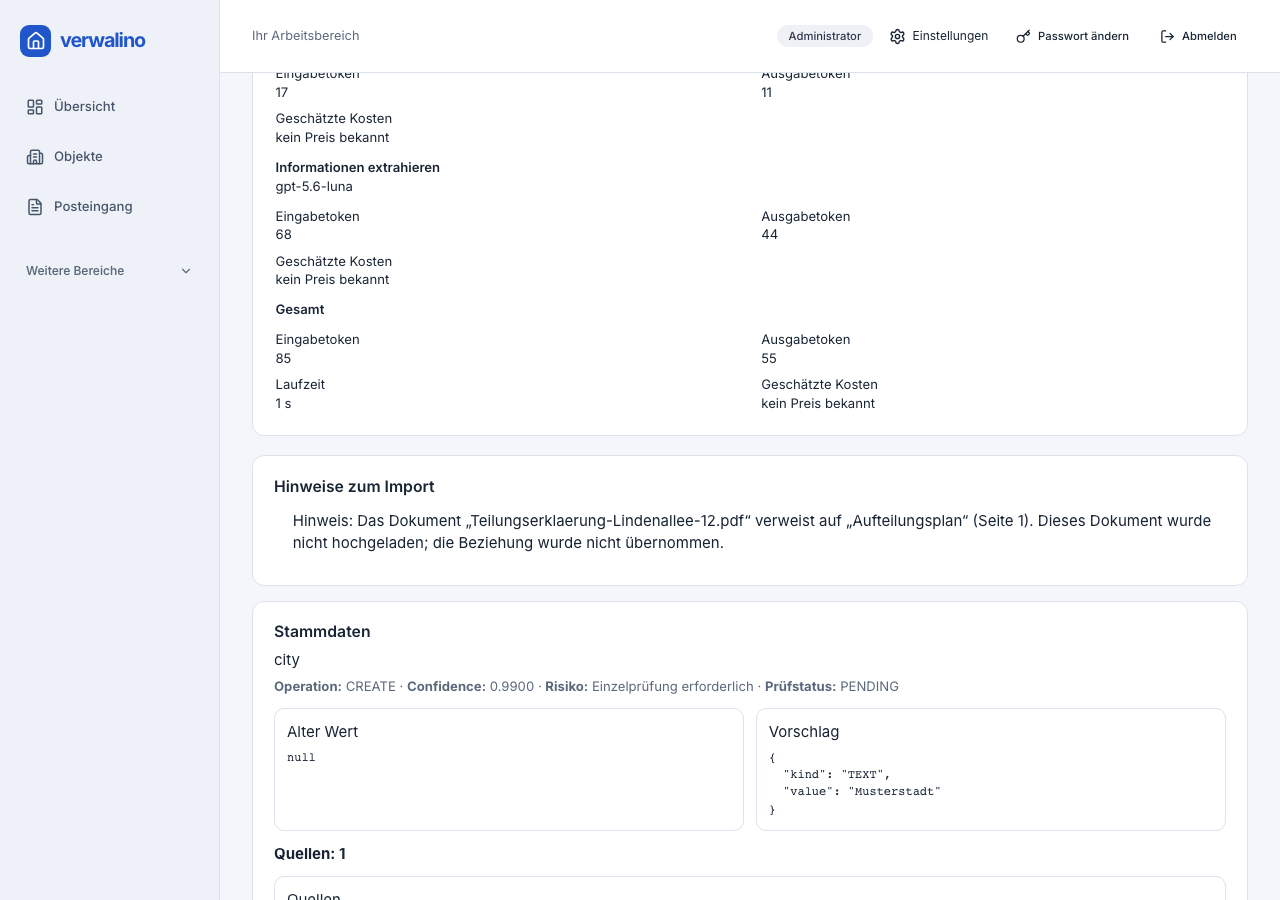
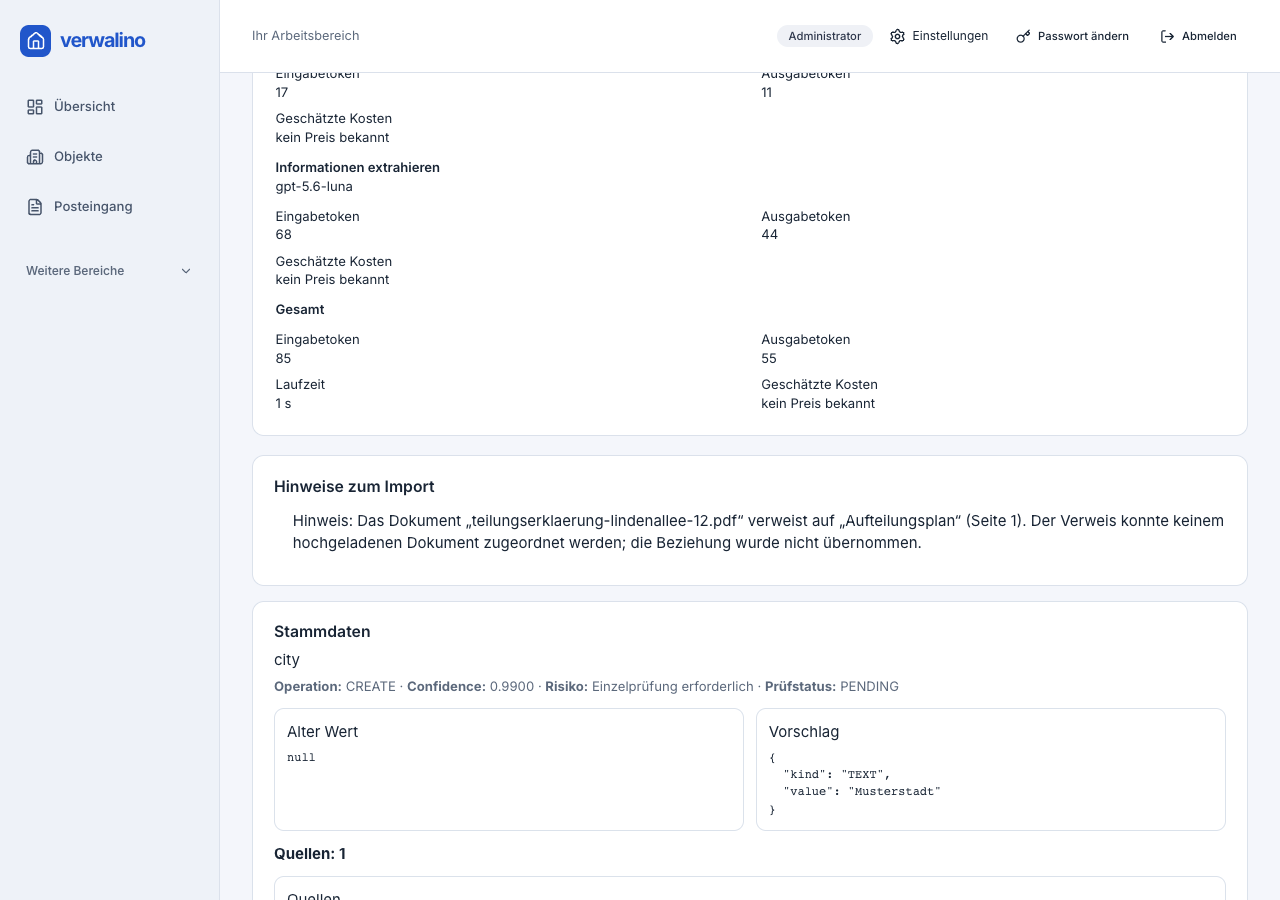
fix(import): keep one issue per left-out relation and say only what is known
Cause: review round 1 of the left-out relation hint. The final de-duplication
of the issue rows keyed on code, severity, message and candidate, so two
left-out relations whose hint text was the same (two documents of one title
naming the same target on the same page) became one row. The text said the
target document was not uploaded, which the pipeline cannot know: the model
may have named an uploaded document by its title. The test that keeps a valid
relation compared the inventory by position, but it is sorted by random
document ids.

Change: the hint is DOCUMENT_RELATION_TARGET_UNMATCHED and says the reference
could not be matched to an uploaded document; the de-duplication leaves the
hints out, which are already one per relation. The offline option is
relation-to-unmatched-document. docs/operations/declaration-imports.md says the
hint quotes the model's name for the target and the source title or file name,
and where these rows are stored, exported and erased. DESIGN.md and the review
screenshots at 1280 and 360 px show the new sentence.

Tests: two left-out relations with the same hint text stay two issues (red
before: one row); the inventory assertion compares by document and passed ten
times in one session.

Refs #873

Changed region(s): [[0.2188, 0.56, 0.9375, 0.6222]]

diff --git a/frontend/src/pages/DeclarationReviewPage.test.tsx b/frontend/src/pages/DeclarationReviewPage.test.tsx
@@ -163,8 +163,8 @@ describe("Teilungserklärung review", () => {
 
   it("shows the hints that belong to no proposal above the proposals, and nothing else there", async () => {
     const hint = {
-      id: "hint", code: "DOCUMENT_RELATION_TARGET_NOT_UPLOADED", severity: "INFO", resolution_status: "OPEN", candidate_id: null,
-      message: "Das Dokument „Teilungserklärung Watelerstraße“ verweist auf „Aufteilungsplan“ (Seite 5). Dieses Dokument wurde nicht hochgeladen; die Beziehung wurde nicht übernommen.",
+      id: "hint", code: "DOCUMENT_RELATION_TARGET_UNMATCHED", severity: "INFO", resolution_status: "OPEN", candidate_id: null,
+      message: "Das Dokument „Teilungserklärung Watelerstraße“ verweist auf „Aufteilungsplan“ (Seite 5). Der Verweis konnte keinem hochgeladenen Dokument zugeordnet werden; die Beziehung wurde nicht übernommen.",
     };
     const ofCandidate = { id: "own", code: "WARN", severity: "WARNING", message: "Eigener Hinweis", resolution_status: "OPEN", candidate_id: "candidate-1" };
     const resolved = { id: "done", code: "OLD", severity: "WARNING", message: "Erledigt", resolution_status: "RESOLVED", candidate_id: null };

diff --git a/frontend/src/pages/DeclarationReviewPage.tsx b/frontend/src/pages/DeclarationReviewPage.tsx
@@ -125,7 +125,7 @@ function DeclarationReviewImportPage({ importId }: { importId: string | undefine
   }, [showConfirmation]);
 
   const documentTitles = useMemo(() => new Map(documents.map((document) => [document.id, document.title])), [documents]);
-  // Open issues that belong to no proposal (a document refers to a document that was not uploaded, a page could not be read).
+  // Open issues that belong to no proposal (a relation to a document that matches none of the upload was left out, a page could not be read).
   const importHints = useMemo(
     () => (preview?.issues ?? []).filter((issue) => issue.candidate_id === null && issue.resolution_status === "OPEN"),
     [preview],

diff --git a/backend/tests/test_declaration_pipeline.py b/backend/tests/test_declaration_pipeline.py
@@ -1619,8 +1619,9 @@ async def _seed_pipeline_import(
     mode: str = "NEW_PROPERTY",
     target_property_id: uuid.UUID | None = None,
     second_pdf: bytes | None = None,
+    second_title: str = "Nachtrag 1",
 ) -> tuple[WorkerLease, str, _MemoryStore]:
-    """Seed a queued import of one document; ``second_pdf`` adds a second one, titled "Nachtrag 1" (sequence 2)."""
+    """Seed a queued import of one document; ``second_pdf`` adds a second one, titled ``second_title`` (sequence 2)."""
     org_id = organization_id or seed_data["org_a_id"]
     initiated_by = (
         seed_data["user_a_admin_id"]
@@ -1681,7 +1682,7 @@ async def _seed_pipeline_import(
                     id=second_id,
                     organization_id=org_id,
                     doc_type="AMENDMENT",
-                    title="Nachtrag 1",
+                    title=second_title,
                     original_filename="nachtrag.pdf",
                     mime_type="application/pdf",
                     content_byte_size=len(second_pdf),
@@ -2724,24 +2725,33 @@ async def test_invented_inventory_relation_quote_remains_bound_after_recheck(see
 class _InventoryRelationProvider(_RecordingProvider):
     """An inventory answer that lists the given documents; the first one relates to each (type, target) pair.
 
-    The inventory that reconcile is sent is kept, so a test sees what the later steps work with.
+    With ``every_document_relates`` each listed document does, citing its own first page. The inventory that
+    reconcile is sent is kept, so a test sees what the later steps work with.
     """
 
-    def __init__(self, keys: list[str], relations: list[tuple[str, str]] = (), *, own_keys: list[str] | None = None) -> None:
+    def __init__(
+        self,
+        keys: list[str],
+        relations: list[tuple[str, str]] = (),
+        *,
+        own_keys: list[str] | None = None,
+        every_document_relates: bool = False,
+    ) -> None:
         super().__init__(keys[0])
         self.reconcile_inventory: DocumentInventoryOutput | None = None
         entries = [
             {"document_key": key, "document_type": "DECLARATION", "title": "Teilung"}
             for key in (own_keys if own_keys is not None else keys)
         ]
-        entries[0]["relations"] = [
-            {
-                "relation_type": kind,
-                "target_document_key": target,
-                "evidence": [{"document_key": keys[0], "pdf_page": 1, "quote": "Teilungserklärung"}],
-            }
-            for kind, target in relations
-        ]
+        for entry in entries if every_document_relates else entries[:1]:
+            entry["relations"] = [
+                {
+                    "relation_type": kind,
+                    "target_document_key": target,
+                    "evidence": [{"document_key": entry["document_key"], "pdf_page": 1, "quote": "Teilungserklärung"}],
+                }
+                for kind, target in relations
+            ]
         self.inventory_output = DocumentInventoryOutput(documents=entries)
 
     async def reconcile(self, inventory, core, rules, *, max_output_tokens):
@@ -2772,7 +2782,19 @@ async def _import_state(lease: WorkerLease):
     return item, run, relation_candidates, issues
 
 
-_NOT_UPLOADED = "DOCUMENT_RELATION_TARGET_NOT_UPLOADED"
+async def _second_document_key(lease: WorkerLease) -> str:
+    """The document key (its id) of the import's second document."""
+    async with get_tenant_session(lease.organization_id) as session:
+        return str(
+            await session.scalar(
+                select(DeclarationImportDocument.document_id)
+                .where(DeclarationImportDocument.import_id == lease.import_id)
+                .where(DeclarationImportDocument.sequence_no == 2)
+            )
+        )
+
+
+_UNMATCHED = "DOCUMENT_RELATION_TARGET_UNMATCHED"
 
 
 @pytest.mark.asyncio
@@ -2800,11 +2822,11 @@ async def test_a_relation_to_a_document_outside_the_import_is_left_out_and_reach
     # No candidate for the relation; one import-level hint that names the document, the relation and the page.
     assert relation_candidates == []
     assert [(issue.code, issue.severity, issue.candidate_id, issue.resolution_status) for issue in issues] == [
-        (_NOT_UPLOADED, "INFO", None, "OPEN")
+        (_UNMATCHED, "INFO", None, "OPEN")
     ]
     assert issues[0].message == (
-        f"Das Dokument „Teilung“ {sentence} Dieses Dokument wurde nicht hochgeladen; "
-        "die Beziehung wurde nicht übernommen."
+        f"Das Dokument „Teilung“ {sentence} Der Verweis konnte keinem hochgeladenen Dokument "
+        "zugeordnet werden; die Beziehung wurde nicht übernommen."
     )
     assert issues[0].details_json == {"document_key": document_key, "pdf_page": 1}
     # The inventory that the later steps use no longer contains the relation.
@@ -2819,14 +2841,7 @@ async def test_two_left_out_relations_give_two_hints_and_a_relation_between_uplo
         make_text_pdf("Teilungserklärung\nHauptstraße 1"),
         second_pdf=make_text_pdf("Nachtrag\nHauptstraße 1"),
     )
-    async with get_tenant_session(lease.organization_id) as session:
-        second_key = str(
-            await session.scalar(
-                select(DeclarationImportDocument.document_id)
-                .where(DeclarationImportDocument.import_id == lease.import_id)
-                .where(DeclarationImportDocument.sequence_no == 2)
-            )
-        )
+    second_key = await _second_document_key(lease)
     provider = _InventoryRelationProvider(
         [first_key, second_key],
         [("SUPPLEMENTS", second_key), ("REFERENCES", "Aufteilungsplan"), ("AMENDS", "Nachtrag 7")],
@@ -2839,16 +2854,41 @@ async def test_two_left_out_relations_give_two_hints_and_a_relation_between_uplo
     assert [candidate.stable_key for candidate in relation_candidates] == [
         f"relation:{first_key}:SUPPLEMENTS:{second_key}"
     ]
-    assert [(issue.code, issue.candidate_id) for issue in issues] == [(_NOT_UPLOADED, None)] * 2
+    assert [(issue.code, issue.candidate_id) for issue in issues] == [(_UNMATCHED, None)] * 2
     assert sorted(issue.message.split(" (Seite")[0] for issue in issues) == [
         "Das Dokument „Teilung“ verweist auf „Aufteilungsplan“",
         "Das Dokument „Teilung“ ändert „Nachtrag 7“",
     ]
+    # The inventory is sorted by document id, which is random: compare by document, not by position.
     assert provider.reconcile_inventory is not None
-    assert [
-        [(relation.relation_type, relation.target_document_key) for relation in document.relations]
+    assert {
+        document.document_key: [(relation.relation_type, relation.target_document_key) for relation in document.relations]
         for document in provider.reconcile_inventory.documents
-    ] == [[("SUPPLEMENTS", second_key)], []]
+    } == {first_key: [("SUPPLEMENTS", second_key)], second_key: []}
+
+
+@pytest.mark.asyncio
+async def test_two_left_out_relations_stay_two_issues_when_their_hint_text_is_the_same(seed_data) -> None:
+    # Two uploaded documents with the same title each refer to the same name on page 1: the hints read the same.
+    lease, first_key, store = await _seed_pipeline_import(
+        seed_data,
+        make_text_pdf("Teilungserklärung\nHauptstraße 1"),
+        second_pdf=make_text_pdf("Nachtrag\nHauptstraße 1"),
+        second_title="Teilung",
+    )
+    second_key = await _second_document_key(lease)
+    provider = _InventoryRelationProvider(
+        [first_key, second_key], [("REFERENCES", "Aufteilungsplan")], every_document_relates=True
+    )
+
+    await DeclarationPipeline(provider, store=store).run(lease)
+
+    item, _run, relation_candidates, issues = await _import_state(lease)
+    assert item is not None and item.status == "NEEDS_REVIEW"
+    assert relation_candidates == []
+    assert [(issue.code, issue.candidate_id) for issue in issues] == [(_UNMATCHED, None)] * 2
+    assert len({issue.message for issue in issues}) == 1
+    assert sorted(issue.details_json["document_key"] for issue in issues) == sorted([first_key, second_key])
 
 
 @pytest.mark.asyncio

diff --git a/backend/app/declarations/pipeline.py b/backend/app/declarations/pipeline.py
@@ -1748,7 +1748,8 @@ def _merge_inventory(values: Sequence[DocumentInventoryOutput]) -> DocumentInven
     return DocumentInventoryOutput(documents=list(sorted(items.values(), key=lambda item: (item.document_key, _stable_json(item.model_dump(mode="json"))))))
 
 
-# How a relation reads in the hint of the review, by its type.
+# The issue of a relation that was left out of the inventory, and how that relation reads in it, by its type.
+_RELATION_HINT_CODE = "DOCUMENT_RELATION_TARGET_UNMATCHED"
 _RELATION_PHRASES = {"AMENDS": "ändert", "SUPPLEMENTS": "ergänzt", "REFERENCES": "verweist auf"}
 
 
@@ -1758,12 +1759,13 @@ def _validate_inventory_documents(
     page_counts: dict[str, int],
     document_titles: dict[str, str],
 ) -> tuple[DocumentInventoryOutput, list[ValidationIssue]]:
-    """Fail an inventory that cannot belong to the import; leave out the relations to a document that was not uploaded.
+    """Fail an inventory that cannot belong to the import; leave out the relations whose target is no document of it.
 
     An entry for a document outside the import, or no entry for a document of it, fails the import. A relation whose
     target is not a document of the import does not: a declaration regularly names documents that were not uploaded
-    (a plan, an earlier deed). That relation is dropped from the inventory that every later step reads, and one hint
-    per relation is returned for the review.
+    (a plan, an earlier deed), and the name the model gave the target may match none of the uploaded ones. That
+    relation is dropped from the inventory that every later step reads, and one hint per relation is returned for
+    the review.
     """
     seen = {item.document_key for item in inventory.documents}
     if not seen <= set(document_ids):
@@ -1789,12 +1791,12 @@ def _validate_inventory_documents(
             hints.setdefault(
                 (item.document_key, relation.relation_type, relation.target_document_key),
                 ValidationIssue(
-                    code="DOCUMENT_RELATION_TARGET_NOT_UPLOADED",
+                    code=_RELATION_HINT_CODE,
                     severity="INFO",
                     message=(
                         f"Das Dokument „{document_titles[item.document_key]}“ {_RELATION_PHRASES[relation.relation_type]} "
-                        f"„{relation.target_document_key}“{page}. Dieses Dokument wurde nicht hochgeladen; "
-                        "die Beziehung wurde nicht übernommen."
+                        f"„{relation.target_document_key}“{page}. Der Verweis konnte keinem hochgeladenen Dokument "
+                        "zugeordnet werden; die Beziehung wurde nicht übernommen."
                     ),
                     document_key=evidence.document_key if evidence is not None else None,
                     pdf_page=evidence.pdf_page if evidence is not None else None,
@@ -2149,11 +2151,13 @@ def _candidate_drafts(imported, inventory, output, validation_issues, document_i
                 details_json,
             )
         )
-    unique_issues: dict[tuple[str, str, str, str | None], DraftIssue] = {}
-    for issue in draft_issues:
-        unique_issues.setdefault(
-            (issue.code, issue.severity, issue.message, issue.candidate_stable_key), issue
-        )
+    unique_issues: dict[tuple[str | int | None, ...], DraftIssue] = {}
+    for position, issue in enumerate(draft_issues):
+        key = (issue.code, issue.severity, issue.message, issue.candidate_stable_key)
+        if issue.code == _RELATION_HINT_CODE:
+            # One issue per left-out relation, even where the hints of two relations read the same.
+            key += (position,)
+        unique_issues.setdefault(key, issue)
     return (
         tuple(sorted(drafts, key=lambda item: item.stable_key)),
         tuple(unique_issues[key] for key in sorted(unique_issues, key=str)),

diff --git a/backend/tests/offline_declaration_import.py b/backend/tests/offline_declaration_import.py
@@ -8,8 +8,8 @@ organization's saved settings the way the worker takes them (the job's first run
 printed at the end show which model was asked for which page. Test tree only: no product switch, no configuration key.
 
 ``--inventory-answer`` changes what the stand-in extraction model's inventory says, for the user check of the failures and
-hints that an inventory answer can cause: ``relation-to-unuploaded-document`` (the declaration REFERENCES a document that
-was not uploaded: the import reaches the review with a hint) or ``unknown-document`` (the answer names a document of its
+hints that an inventory answer can cause: ``relation-to-unmatched-document`` (the declaration REFERENCES a document that
+matches none of the import's: the import reaches the review with a hint) or ``unknown-document`` (the answer names a document of its
 own that is not in the import: the import fails before any extraction call). Without it the answer is the plain one.
 
 The stored API key is neither decrypted nor used here (an instance has its own session secret, and no provider is
@@ -21,7 +21,7 @@ from what the administrator saved under Einstellungen; the instance has the queu
     cd <repository>/backend && . ../scripts/test-env.sh && uv run --locked --extra dev --extra ops \\
       python -m tests.offline_declaration_import --organization "<name or id>" \\
       --documents "$(sed -n 's/^scratch=//p' /tmp/hausverwaltung-acceptance.lock/instance)/documents" \\
-      [--inventory-answer relation-to-unuploaded-document|unknown-document]
+      [--inventory-answer relation-to-unmatched-document|unknown-document]
 """
 from __future__ import annotations
 
@@ -53,7 +53,7 @@ from tests.declaration_fixtures import ModelRecording, SlowReadingProvider, lind
 MAX_IMPORTS = 25
 # The inventory answers besides the plain one, and the state every import is expected to end in for each.
 INVENTORY_ANSWERS = {
-    "relation-to-unuploaded-document": ("NEEDS_REVIEW", None),
+    "relation-to-unmatched-document": ("NEEDS_REVIEW", None),
     "unknown-document": ("FAILED", "UNKNOWN_INVENTORY_DOCUMENT"),
 }
 
@@ -93,7 +93,7 @@ def fictional_provider(document_id, usage: ProviderUsage | None = None, inventor
         fact(subject,'location',TextValue(kind='TEXT',value=location),location)
         fact(subject,'mea',MeaFraction(kind='MEA',numerator=share,denominator=1000),str(share))
     entry = {'document_key':document_id,'document_type':'DECLARATION','title':'Fiktive Teilungserklärung'}
-    if inventory_answer == 'relation-to-unuploaded-document':
+    if inventory_answer == 'relation-to-unmatched-document':
         entry['relations'] = [{'relation_type':'REFERENCES','target_document_key':'Aufteilungsplan',
             'evidence':[{'document_key':document_id,'pdf_page':1,'quote':'WEG Lindenallee 12'}]}]
     elif inventory_answer == 'unknown-document':
@@ -253,7 +253,7 @@ def main(argv: list[str] | None = None) -> int:
     parser.add_argument("--organization", required=True, help="name or id of the organization")
     parser.add_argument("--documents", required=True, help="the document storage root of the instance")
     parser.add_argument("--inventory-answer", choices=sorted(INVENTORY_ANSWERS),
-                        help="what the stand-in inventory says: a relation to a document that was not uploaded, or a document "
+                        help="what the stand-in inventory says: a relation to a document that matches none of the import's, or a document "
                              "that is not in the import (the import then fails before any extraction call)")
     arguments = parser.parse_args(argv)
     from app.core.config import settings

diff --git a/backend/tests/test_offline_declaration_import.py b/backend/tests/test_offline_declaration_import.py
@@ -93,7 +93,7 @@ def _run_entry(name: str, documents: Path, *arguments: str) -> subprocess.Comple
     )
 
 
-async def test_the_inventory_answer_option_makes_the_import_reach_the_review_with_a_hint_for_a_relation_to_a_document_that_was_not_uploaded(
+async def test_the_inventory_answer_option_makes_the_import_reach_the_review_with_a_hint_for_a_relation_to_a_document_that_matches_none_of_the_upload(
     seed_data, client_a_admin, migrator_session, tmp_path, monkeypatch
 ) -> None:
     organization = seed_data["org_a_id"]
@@ -101,7 +101,7 @@ async def test_the_inventory_answer_option_makes_the_import_reach_the_review_wit
     import_id, _document = await _queue_scan(client_a_admin, tmp_path, monkeypatch)
     name = await migrator_session.scalar(text("SELECT name FROM organization WHERE id=:id"), {"id": organization})
 
-    done = _run_entry(name, tmp_path, "--inventory-answer", "relation-to-unuploaded-document")
+    done = _run_entry(name, tmp_path, "--inventory-answer", "relation-to-unmatched-document")
 
     lines = done.stdout.splitlines()
     assert done.returncode == 0, done.stdout + done.stderr
@@ -110,9 +110,9 @@ async def test_the_inventory_answer_option_makes_the_import_reach_the_review_wit
     assert any(" call=extract_core " in line for line in lines) and any(" call=reconcile " in line for line in lines)
     preview = await client_a_admin.get(f"/api/declaration-imports/{import_id}/approval-preview")
     assert preview.status_code == 200, preview.text
-    hints = [issue for issue in preview.json()["issues"] if issue["code"] == "DOCUMENT_RELATION_TARGET_NOT_UPLOADED"]
+    hints = [issue for issue in preview.json()["issues"] if issue["code"] == "DOCUMENT_RELATION_TARGET_UNMATCHED"]
     assert [(issue["severity"], issue["candidate_id"]) for issue in hints] == [("INFO", None)]
-    assert "„Aufteilungsplan“" in hints[0]["message"] and "wurde nicht hochgeladen" in hints[0]["message"]
+    assert "„Aufteilungsplan“" in hints[0]["message"] and "keinem hochgeladenen Dokument zugeordnet" in hints[0]["message"]
 
 
 async def test_the_inventory_answer_option_makes_the_import_fail_before_any_extraction_call_for_a_document_outside_the_import(

diff --git a/docs/operations/declaration-imports.md b/docs/operations/declaration-imports.md
@@ -136,14 +136,19 @@ reservation is made, none is left in the run's usage):
   names the next step (start a new import, contact the operator if it repeats).
 - A **relation** (`AMENDS`, `SUPPLEMENTS`, `REFERENCES`) whose `target_document_key` is not a document of the
   import is no failure: a declaration regularly names documents that were not uploaded (an Aufteilungsplan, an
-  earlier deed, a Nachtrag). The relation is left out of the inventory that every later step reads (reconciliation,
-  evidence validation, the relation candidates), so no candidate is created for it, and the run records one issue
-  per left-out relation, code `DOCUMENT_RELATION_TARGET_NOT_UPLOADED`, severity `INFO`, bound to no candidate
-  (`candidate_id` is null; `details_json` holds `document_key` and `pdf_page` of the relation's evidence where the
-  answer names a page of the import). Its German text names the document the relation was read in, the relation
-  in plain words (`ändert`, `ergänzt`, `verweist auf`), the other document as the answer names it, and says that it
-  was not uploaded and the relation was not taken over. The review page lists such issues in „Hinweise zum Import“;
+  earlier deed, a Nachtrag), and the name the model gave a target may match none of the uploaded ones. The relation
+  is left out of the inventory that every later step reads (reconciliation, evidence validation, the relation
+  candidates), so no candidate is created for it, and the run records one issue per left-out relation, code
+  `DOCUMENT_RELATION_TARGET_UNMATCHED`, severity `INFO`, bound to no candidate (`candidate_id` is null;
+  `details_json` holds `document_key` and `pdf_page` of the relation's evidence where the answer names a page of
+  the import). Its German text names the document the relation was read in, the relation in plain words (`ändert`,
+  `ergänzt`, `verweist auf`) and the other document as the answer names it, and says that the reference could not
+  be matched to an uploaded document and the relation was not taken over; it does not say that the document was
+  not uploaded, because the pipeline cannot know that. The review page lists such issues in „Hinweise zum Import“;
   they never block the approval. The evidence of a left-out relation is not validated, so it cannot fail the import.
+  The text is not fixed: it quotes the name the model gave for the target (up to 120 characters) and the title or
+  file name of the source document. These rows are stored in `declaration_candidate_issue` like the import's other
+  evidence, exported and erased with it, and nothing logs them.
 
 ## Reading Stage (ADR 0017)
 

diff --git a/DESIGN.md b/DESIGN.md
@@ -2523,16 +2523,16 @@ An inventory answer that does not fit the import's documents is explained the sa
 `UNKNOWN_INVENTORY_DOCUMENT` („Die Antwort des Modells nennt ein Dokument, das nicht zu diesem Import gehört …“) and
 `MISSING_INVENTORY_DOCUMENT` („Die Antwort des Modells enthält nicht alle Dokumente dieses Imports …“) each end with
 what to do: „Bitte starten Sie einen neuen Import. Besteht das Problem weiter, wenden Sie sich an den Betreiber.“ A relation
-to a document that was not uploaded does not fail the import. The review screen („Teilungserklärung prüfen“) shows the
+whose target matches none of the uploaded documents does not fail the import. The review screen („Teilungserklärung prüfen“) shows the
 open issues that belong to no proposal in a card „Hinweise zum Import“ above the proposal groups (the `card`
 of a group with an `h2` and the `.declaration-issues` list, one line per issue as „Hinweis: …“ / „Prüfen: …“; the card is
 absent when there are none). The hint names the document, the relation in plain words (ändert, ergänzt, verweist
-auf), the other document as the answer names it, the page, and that it was not uploaded. Synthetic import on the test
-database; nothing scrolls horizontally at 360 px:
+auf), the other document as the answer names it, the page, and that the reference could not be matched to an uploaded
+document. Synthetic import on the test database; nothing scrolls horizontally at 360 px:
 
 | Inventory answer | Desktop (1280 px) | Mobile (360 px) |
 | --- | --- | --- |
-| Before: the relation to a document that was not uploaded failed the import (no text for the code) | [view](docs/assets/design/declaration-inventory/failure-before-1280.png) | [view](docs/assets/design/declaration-inventory/failure-before-360.png) |
+| Before: the relation to a document that matches none of the upload failed the import (no text for the code) | [view](docs/assets/design/declaration-inventory/failure-before-1280.png) | [view](docs/assets/design/declaration-inventory/failure-before-360.png) |
 | After: an inventory entry of a document outside the import fails it, with its German text | [view](docs/assets/design/declaration-inventory/failure-after-1280.png) | [view](docs/assets/design/declaration-inventory/failure-after-360.png) |
 | After: the same relation reaches the review as a hint | [view](docs/assets/design/declaration-inventory/review-hint-after-1280.png) | [view](docs/assets/design/declaration-inventory/review-hint-after-360.png) |
 

diff --git a/docs/acceptance/README.md b/docs/acceptance/README.md
@@ -102,8 +102,8 @@ It knows the fictional Lindenallee declaration only, exits with 1 when an import
 changes nothing outside the instance's organization.
 
 `--inventory-answer` changes what the stand-in extraction model's inventory says, for a user check of what an inventory answer
-can cause; every import the run processes gets that answer. `relation-to-unuploaded-document` makes the declaration REFERENCES a
-document (`Aufteilungsplan`) that was not uploaded: the import reaches „Fachliche Prüfung“, and the review shows the hint in
+can cause; every import the run processes gets that answer. `relation-to-unmatched-document` makes the declaration REFERENCES a
+document (`Aufteilungsplan`) that matches none of the import's documents: the import reaches „Fachliche Prüfung“, and the review shows the hint in
 „Hinweise zum Import“. `unknown-document` makes the inventory name a document that is not in the import: the import fails with
 `UNKNOWN_INVENTORY_DOCUMENT` before any extraction call (the output lists the `inventory` call only), and the import page
 explains it in German. With the option, the exit status is 0 when every import ended in the state the option stands for
